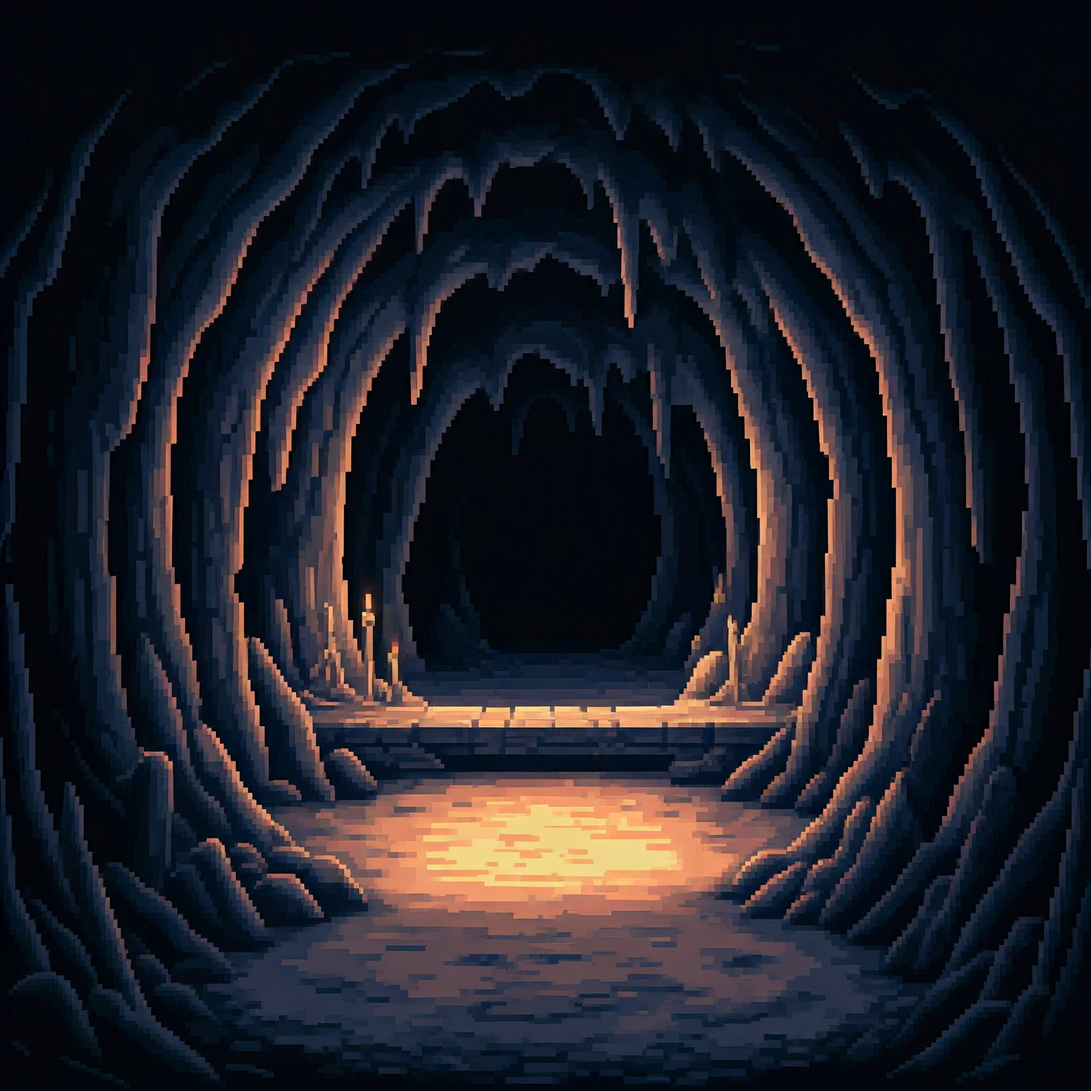
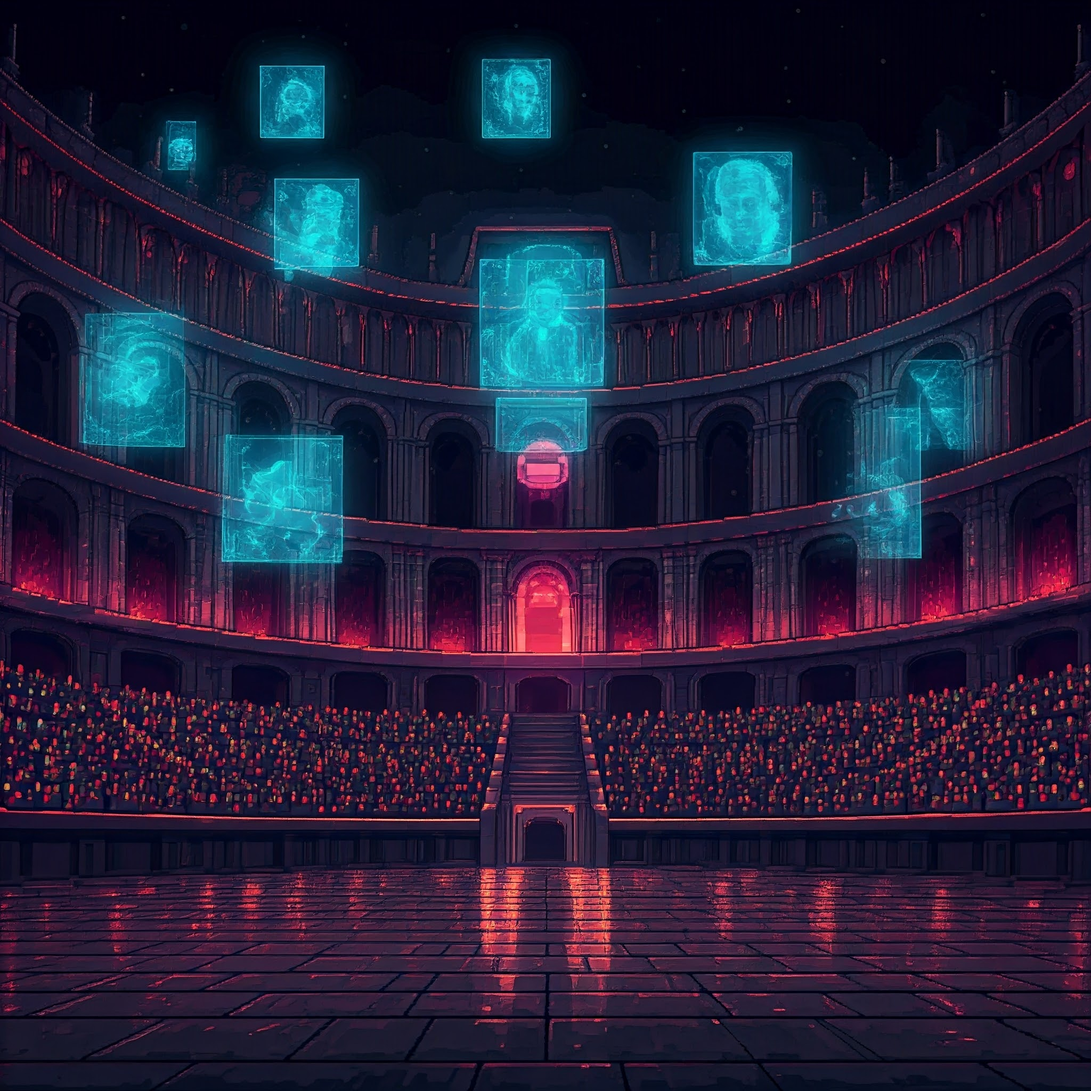
Tela inicial QUASE pronta

diff --git a/interface.py b/interface.py
@@ -10,6 +10,7 @@ pygame.display.set_caption('Battlefighters ⚔')
 
 # Inicia estruturas de dados
 game = True
+sound = True
 frames=0
 current_screen='tela carregamento'
 clock = pygame.time.Clock()
@@ -89,7 +90,7 @@ while game:
         Arcimage_rect.center=(width/2,(height/2)-150)
         window.blit(Arcimage, Arcimage_rect)
 
-        # Cria botão do play:
+        # Cria botão do play e musica:
         # Cria círculo
         radiusplayb=50
         centerplayb=((width/2)-100,(height/2)+70)
@@ -99,9 +100,36 @@ while game:
         centersetb=((width/2)+100,(height/2)+70)
         colorsetb=(214,217,54)
         pygame.draw.circle(window, colorsetb, centersetb, radiussetb) 
-        # Cria Botão:
-        verticesplaybutton=[()]
+        
+        # Importa Botões:
+        Muteimage = pygame.image.load('images/BotaoMute.png')
+        Volumeimage = pygame.image.load('images/Botaovolume.png')
+        if sound==False:
+            Soundimage=Muteimage
+        else:
+            Soundimage=Volumeimage
+        # if CLICARBOTAODIREITO:
+        #     if sound==False:
+        #         sound=True
+        #     else:
+        #         sound=False
+         
+        Soundimagewidth = 100
+        Soundimageheight = 100
+        Soundimage = pygame.transform.scale(Soundimage, (Soundimagewidth, Soundimageheight))
+        Soundimage_rect=Soundimage.get_rect()
+        Soundimage_rect.center=(centersetb)
+        window.blit(Soundimage, Soundimage_rect)
 
+        Playimage = pygame.image.load('images/Botaoplay.png')
+        Playimagewidth = 70
+        Playimageheight = 70
+        Playimage = pygame.transform.scale(Playimage, (Playimagewidth, Playimageheight))
+        Playimage_rect=Playimage.get_rect()
+        Playimage_rect.center=((width/2)-98,(height/2)+70)
+        window.blit(Playimage, Playimage_rect)
+
+        # confere se botão do volume foi apertado 
 
     # Atualiza estado do jogo
     pygame.display.update()  # Mostra o novo frame para o jogador
